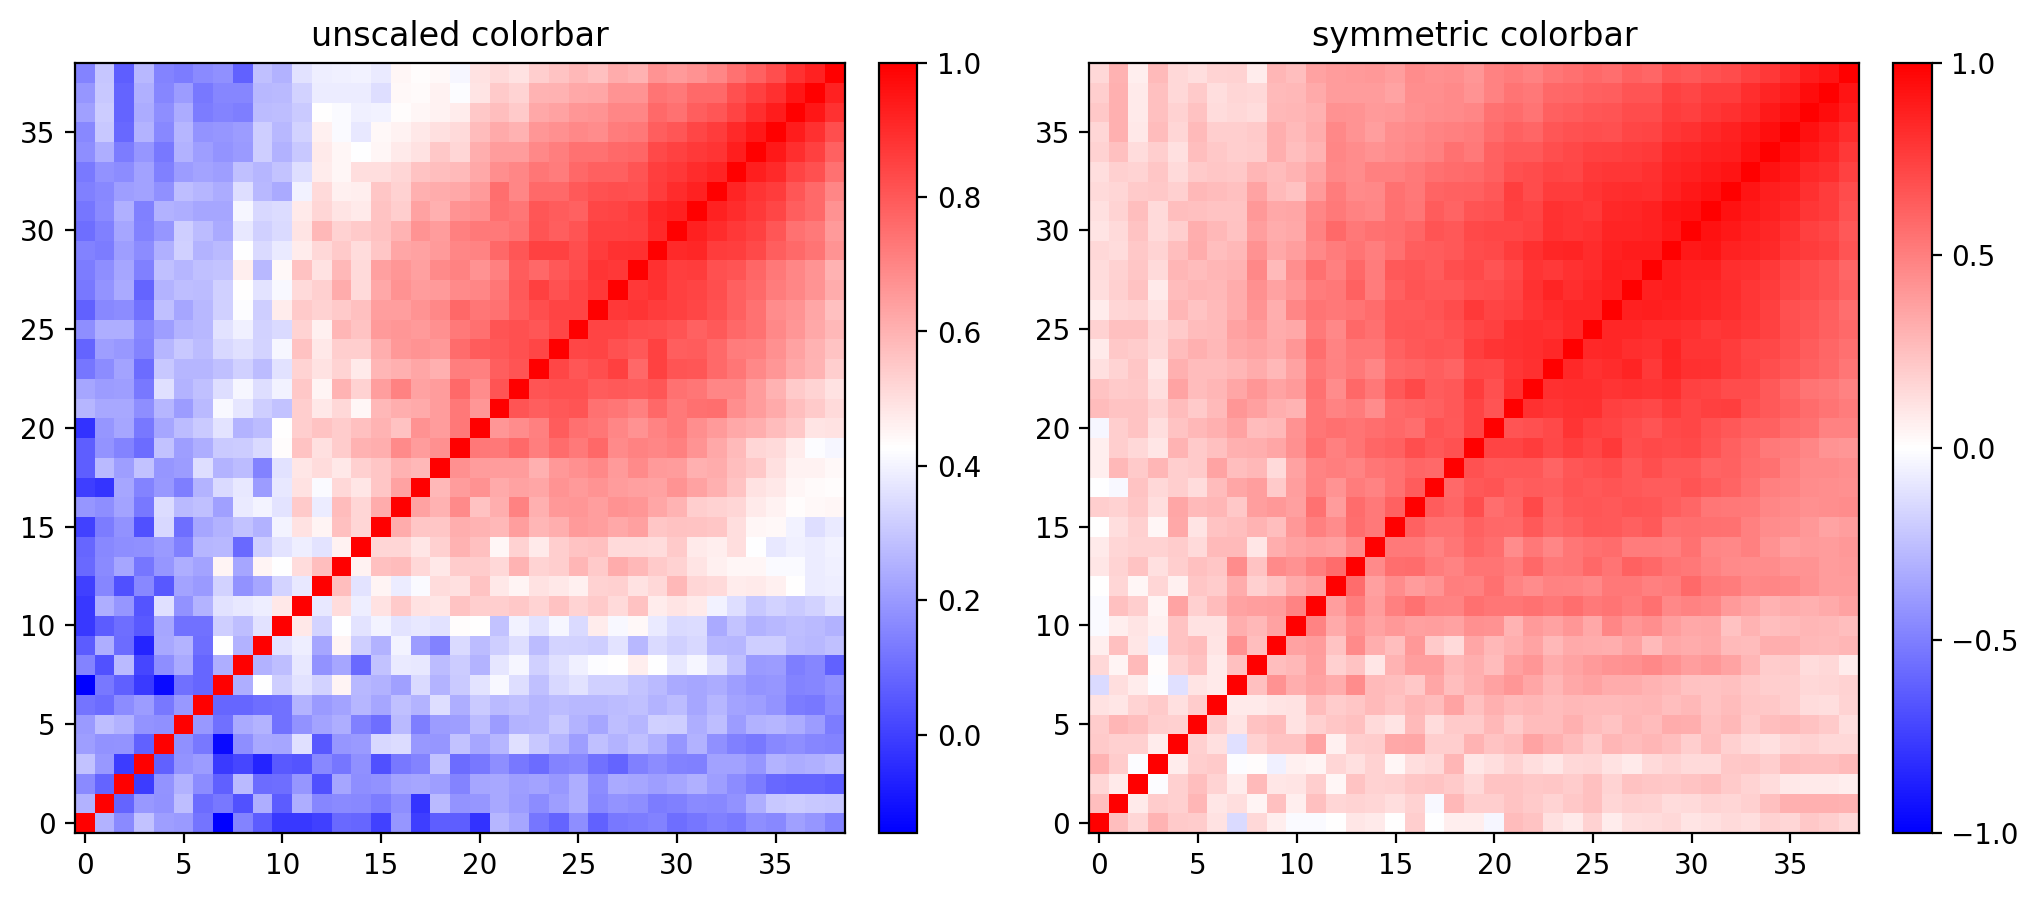
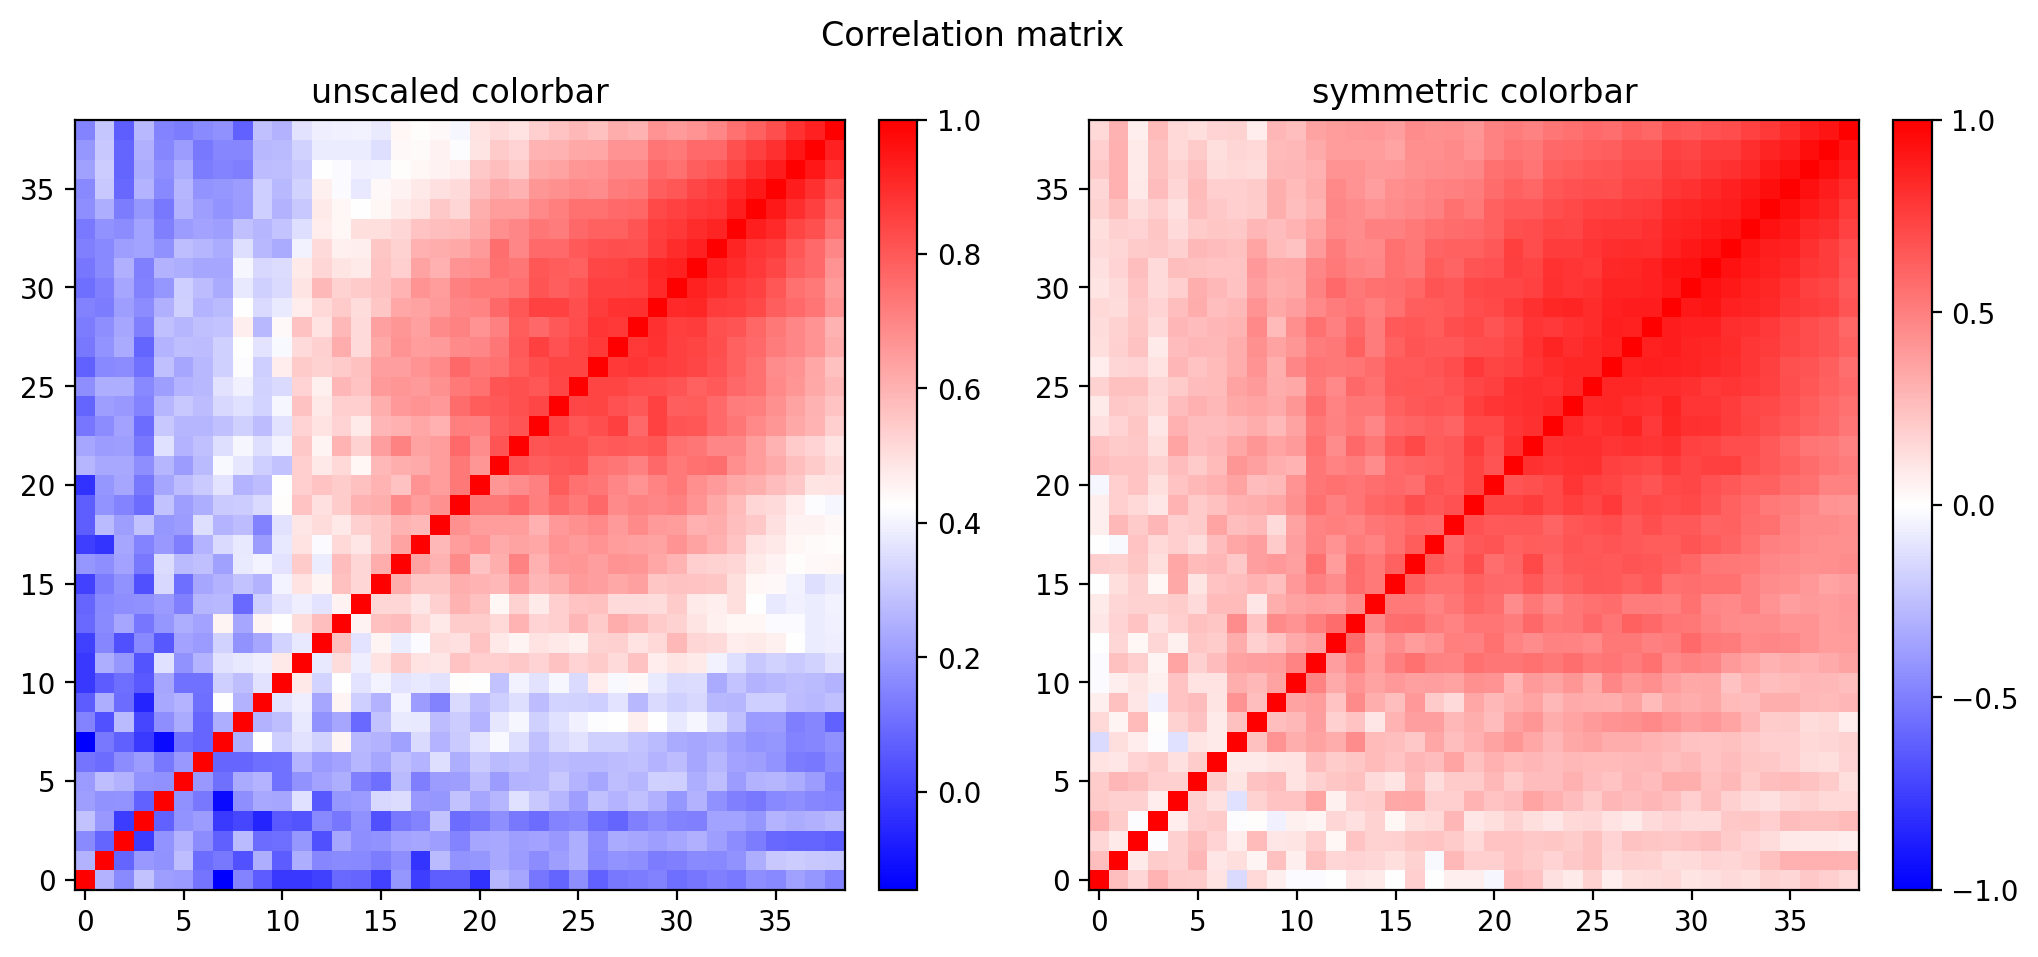
add title to corr plot

diff --git a/HaloModel/HOD_and_cosmo_emulation/GLAM/cov_plot.py b/HaloModel/HOD_and_cosmo_emulation/GLAM/cov_plot.py
@@ -65,6 +65,8 @@ def plot_corr(corr):
     fig.colorbar(im0, fraction=0.046, pad=0.04)
     fig.colorbar(im1, fraction=0.046, pad=0.04, ticks=np.linspace(-1, 1, 5))
 
+    fig.suptitle("Correlation matrix")
+
     figname = Path("figures/corr.png")
     if figname.exists():
         plt.show()
@@ -131,8 +133,8 @@ cov_GLAM, corr_GLAM = load_cov_corr("wp_fiducial_MGGLAM")
 # check_cov(cov_sz)
 # check_cov(cov_GLAM)
 # plot_cov_cov_inv(cov_GLAM)
-# plot_corr(corr_GLAM)
-compare_cov_sz_and_cov_GLAM(cov_GLAM, cov_sz)
+plot_corr(corr_GLAM)
+# compare_cov_sz_and_cov_GLAM(cov_GLAM, cov_sz)
 
 
 exit()
